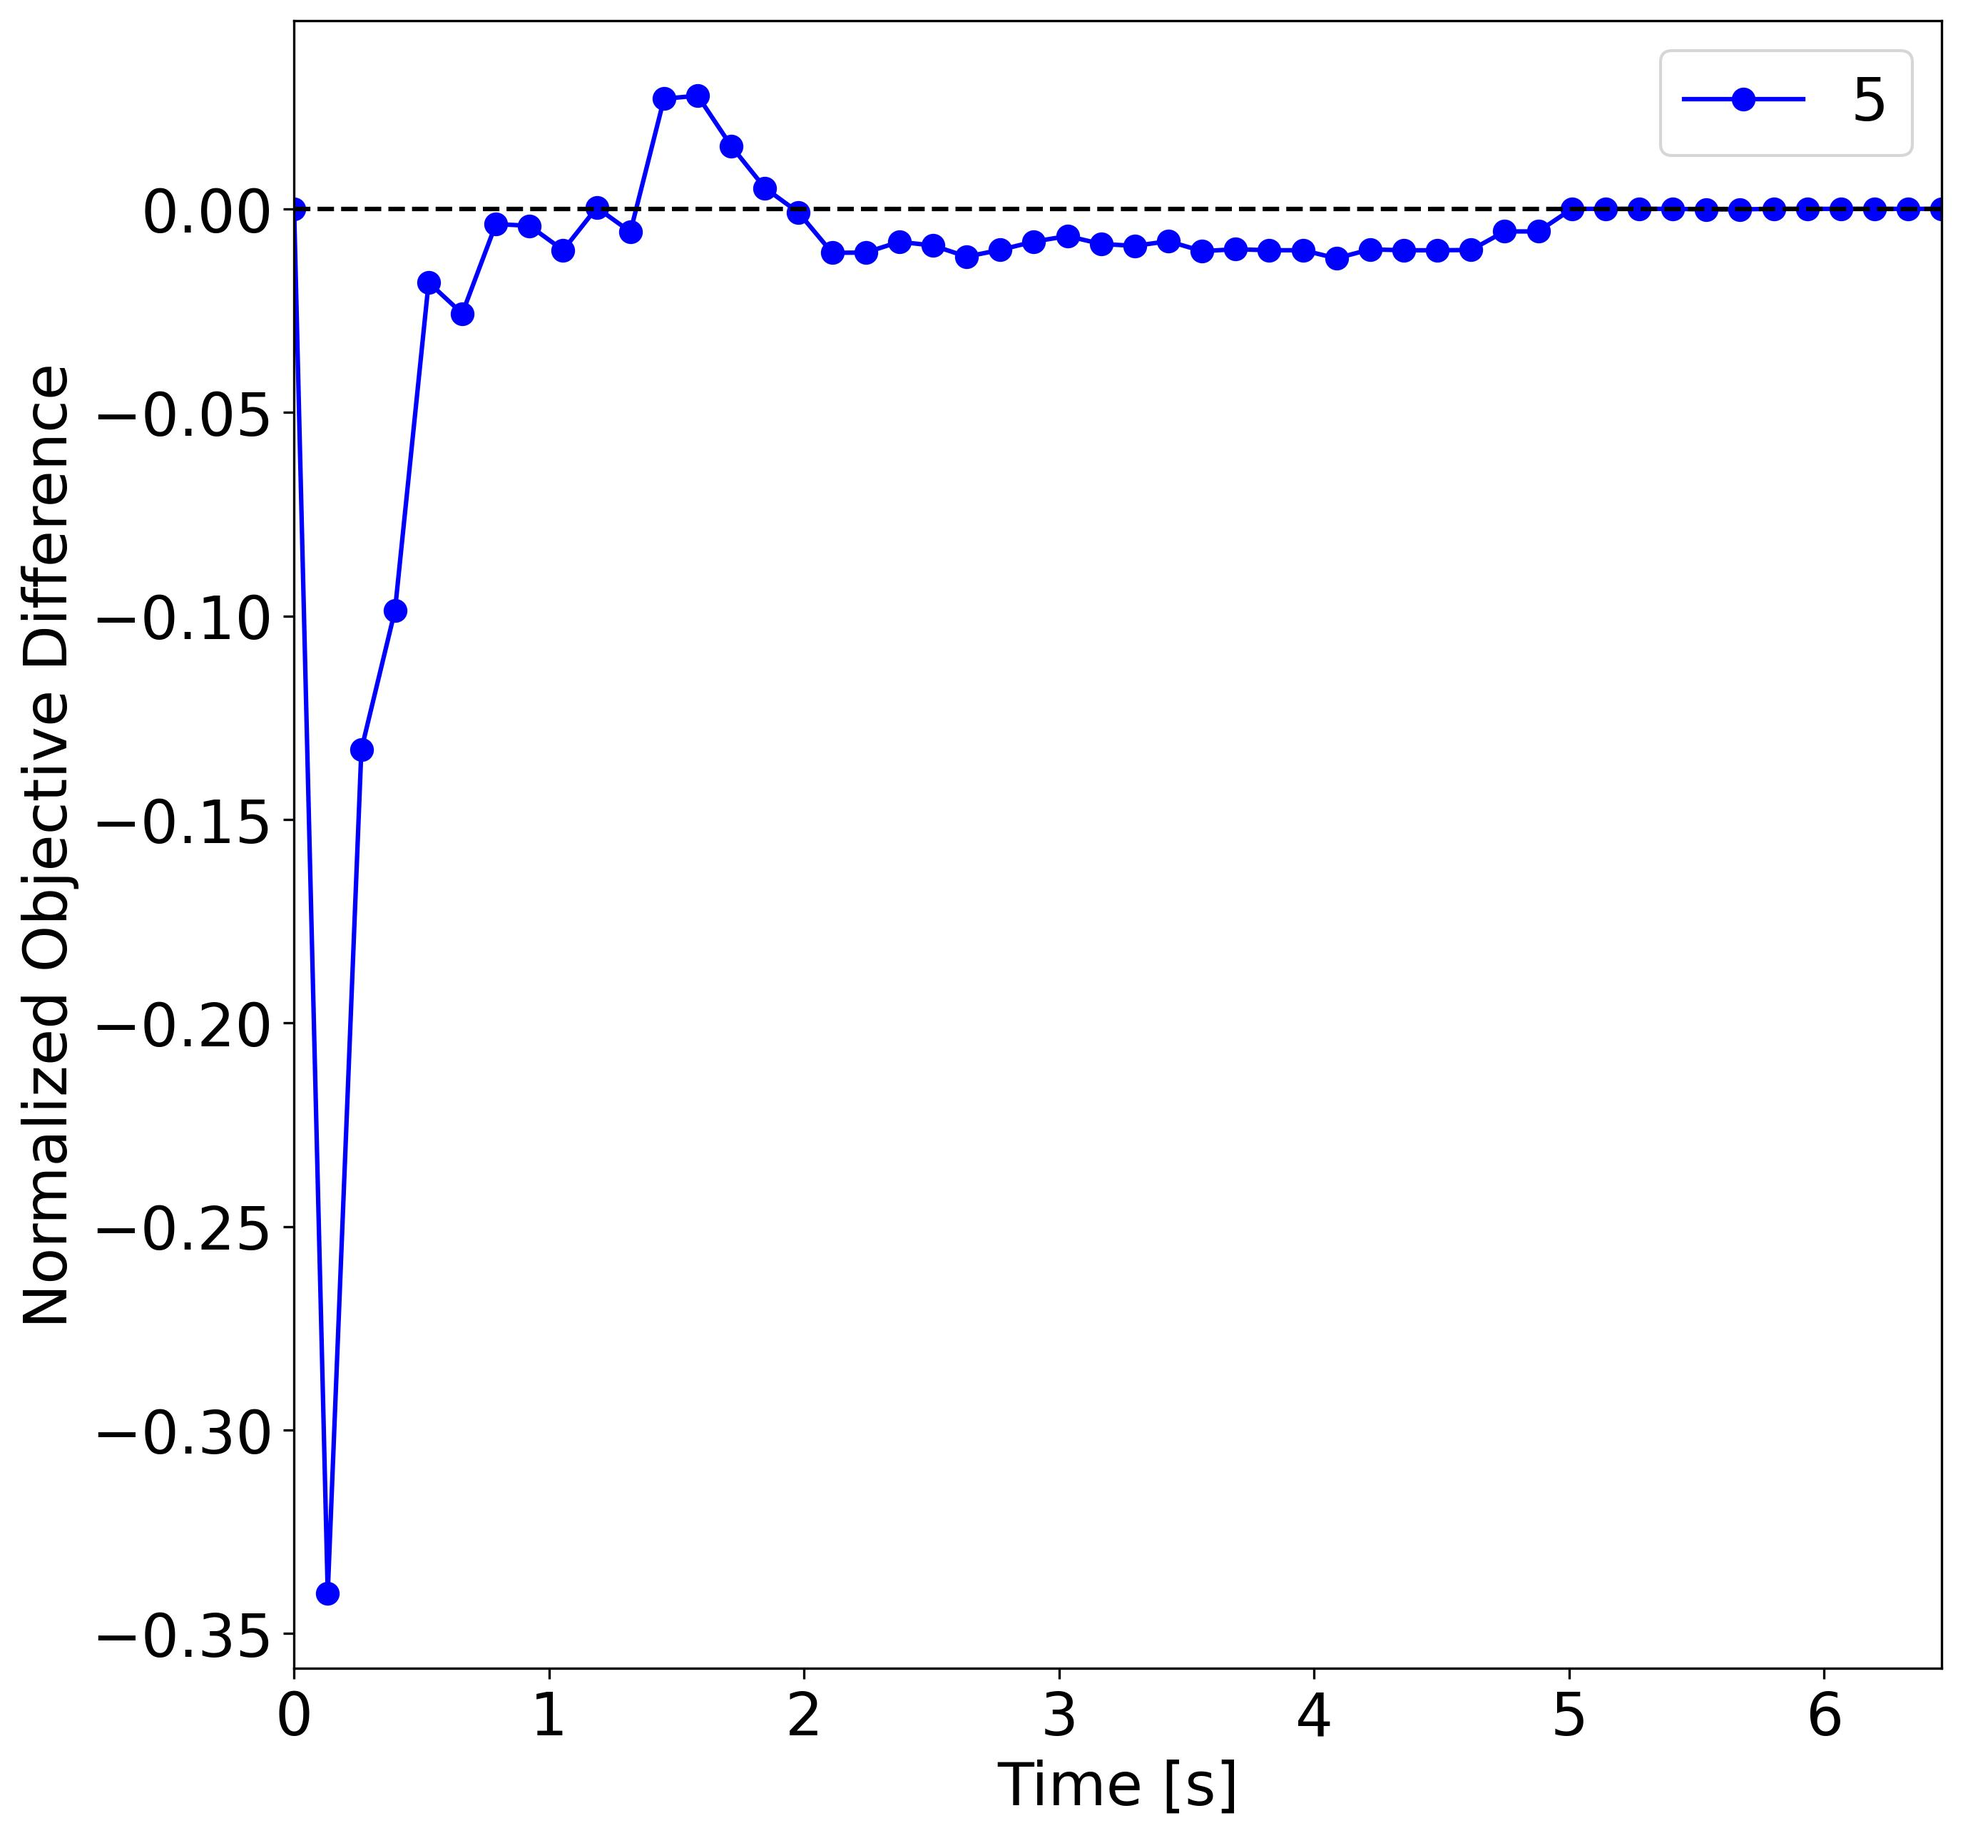
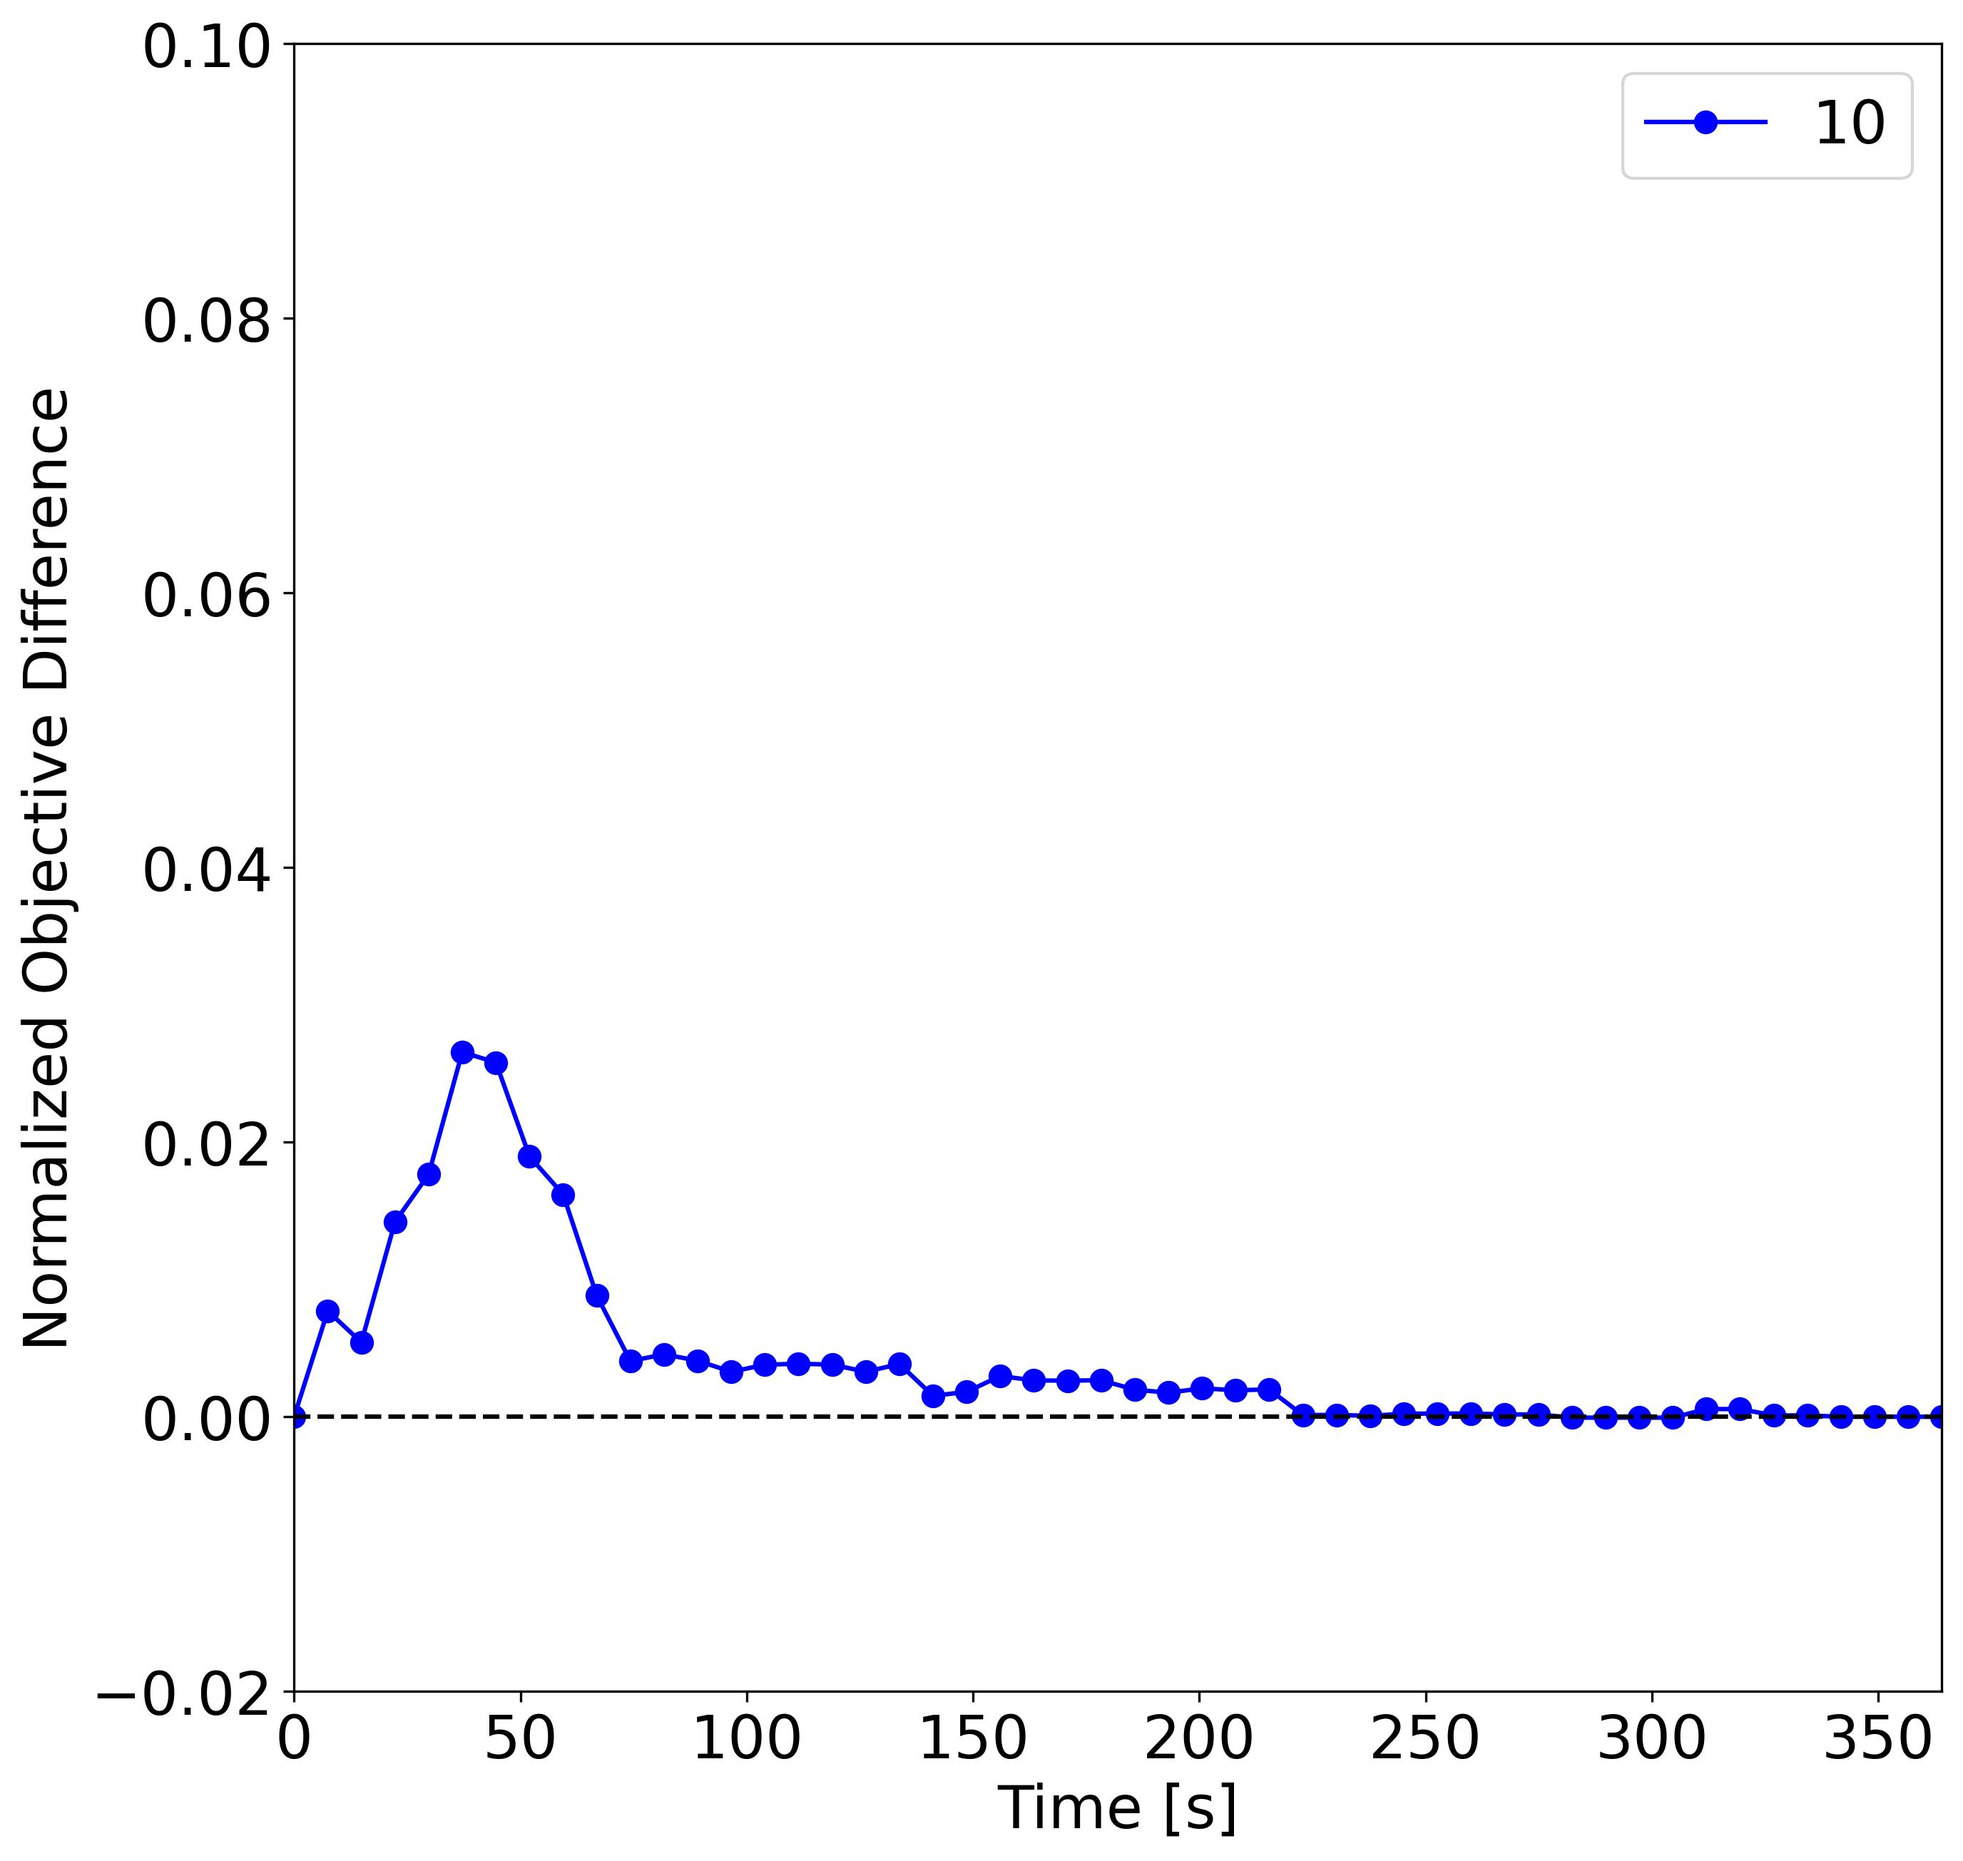
New plots

diff --git a/plots/power_grid_opt.py b/plots/power_grid_opt.py
@@ -79,8 +79,8 @@ def plot_average_histories():
 
 def plot_history_diff():
     """Plots differences between the two configured solver curves."""
-    num_generators = [5]
-    solver_ids = ["hybrid/nl_1/uniform", "uniform"]
+    num_generators = [10]
+    solver_ids = ["hybrid/nl_1", "uniform"]
     ref_ind = 0
     violation_tolerance = 1e-10
 
@@ -91,14 +91,14 @@ def plot_history_diff():
         first_ys, second_ys = solver_data[:2]
         lines.append(Line(xs, first_ys - second_ys, color=num_gens_ind, marker=0, label=str(num_gens)))
     lines.append(Line([0, 10000], [0, 0], color="black", marker="none", style="--"))
-    plot_general(lines, axis_labels=("Time [s]", "Normalized Objective Difference"), boundaries=(0, xs[-1], None, None))
+    plot_general(lines, axis_labels=("Time [s]", "Normalized Objective Difference"), boundaries=(0, xs[-1], -0.02, 0.1))
     save_figure()
 
 
 def plot_ar_vs_instance():
     """Plots `ar_uniform_fun` and `ar_opt_fun` against row index for the configured generator count."""
-    num_generators = 5
-    df = load_dfs(num_generators, ["hybrid/nl_1"], 0)[0]
+    num_generators = 10
+    df = load_dfs(num_generators, ["hybrid/nl_1/exact"], 0)[0]
     ar_uniform_average = df["ar_uniform"].mean()
     ar_opt_average = df["ar_opt"].mean()
     lines = [Line(np.arange(len(df)), df["ar_uniform"], color=0, style="none", label="AR Uniform"),
@@ -113,7 +113,7 @@ def plot_ar_vs_instance():
 
 def plot_ar_diff_vs_instance():
     """Plots `ar_opt_fun - ar_uniform_fun` against row index for the configured generator count."""
-    num_generators = 5
+    num_generators = 10
     df = load_dfs(num_generators, ["hybrid/nl_1"], 0)[0]
     lines = [Line(np.arange(len(df)), df["ar_opt"] - df["ar_uniform"], style="none", label="AR Opt - AR Uniform"),
              Line([0, len(df) - 1], [0, 0], color="black", marker="none", style="--")]

diff --git a/src/PowerFlowSolver.py b/src/PowerFlowSolver.py
@@ -398,7 +398,6 @@ class HybridSolver(PowerFlowSolver):
         num_bitstrings = 2 ** len(problem.generators)
 
         initial_angles = self.initial_angles
-        assert initial_angles is not None, "initial_angles cannot be None."
         if isinstance(initial_angles, str):
             if initial_angles == "random":
                 initial_angles = random.default_rng(self.seed).uniform(-np.pi, np.pi, len(self.vqp.circuit.parameters))

diff --git a/run_single.py b/run_single.py
@@ -26,13 +26,12 @@ def run_single():
     max_classical_time = None
     num_layers = 1
     initial_angles = "random"
-    # sampler_id = "exact"
-    sampler_id = "finite"
+    sampler_id = "exact"
     shots = 1000
     analyze_expectations = True
     max_process_time = None
     data_path = Path("data/5")
-    instance = 7
+    instance = 0
     voltage_deviation_mult = 10
 
     with (data_path / f"{instance}.pkl").open("rb") as file:
